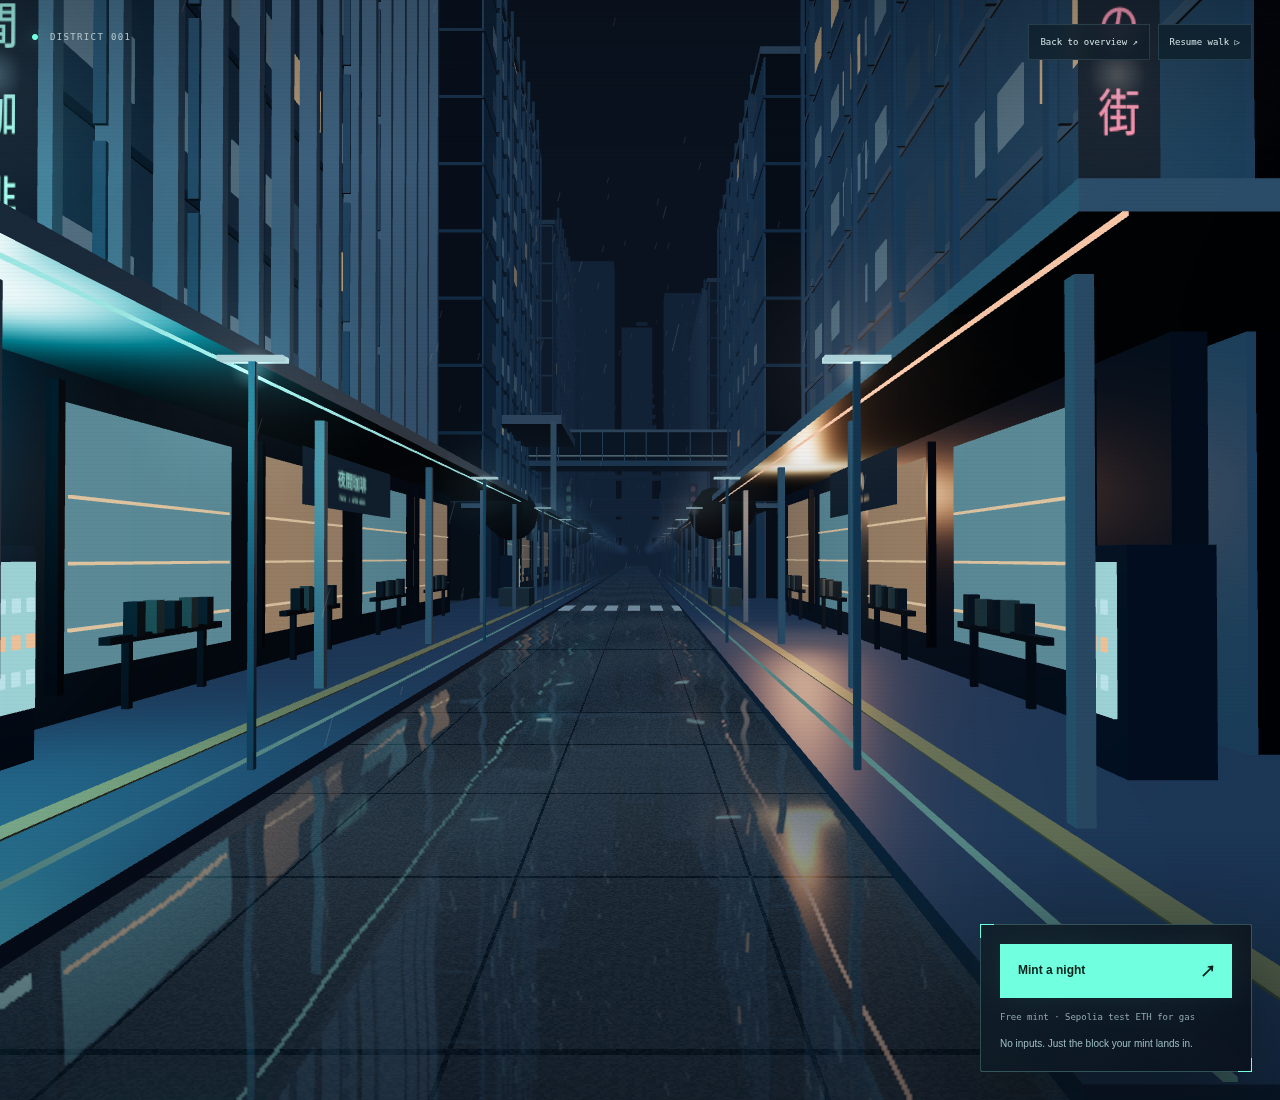
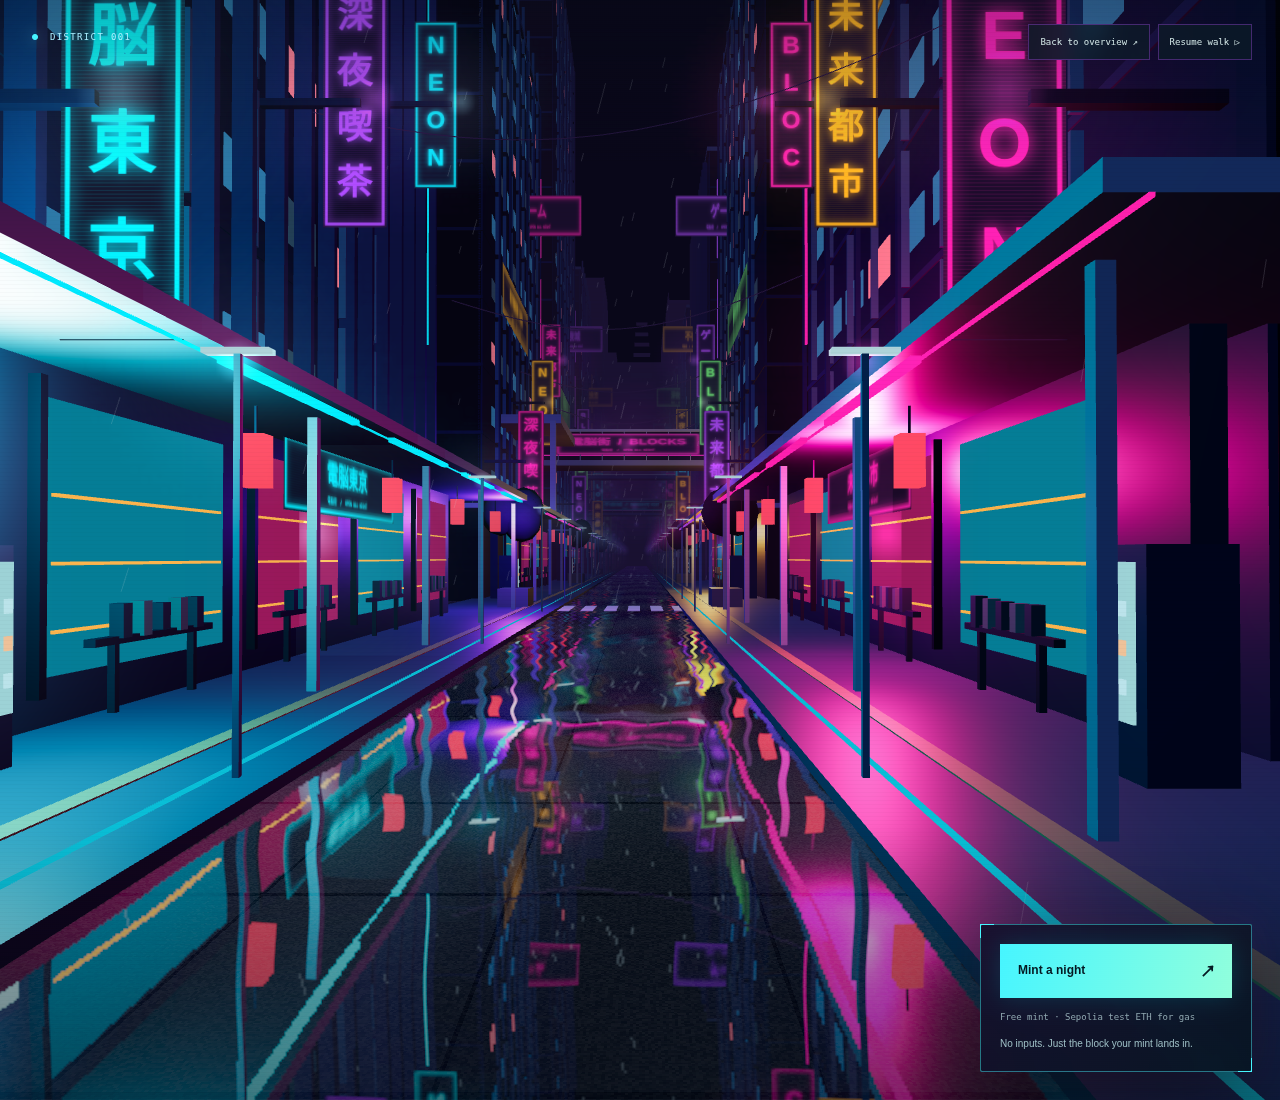
Light the Blocks street with cyberpunk neon and stacked signs

diff --git a/blocks-page/dist/style.css b/blocks-page/dist/style.css
@@ -34,3 +34,12 @@ body.exploring{overflow:hidden}body.exploring .landing{position:fixed;inset:0;z-
 
 @media(max-width:700px){.hero-copy{top:151px}h1{font-size:66px}}
 @media(max-width:370px){.hero-copy{top:145px}h1{font-size:56px}}
+
+/* Electric shop signs against a violet night, following the district moodboard. */
+:root{--mint:#46f5ff;--pink:#ff32b5;--bg:#090713}
+h1 em{color:#ff75d0;text-shadow:0 0 28px #ff20ad55,0 0 80px #bf25ff30}
+.hero-copy .eyebrow{color:#a8f7ff}.hero-location{color:#a8edff}.hero-location>span:last-child{color:#e681cc}
+.explore{border-color:#ff32b580;background:#1a0b2c9c;box-shadow:inset 0 0 18px #ff20ad0d,0 0 24px #ff20ad12}.explore:hover{background:#30113dbb;border-color:#ff75d0}.explore span{color:#ff75d0}
+.mint-panel{border-color:#46f5ff70;background:linear-gradient(135deg,#160f2cf2,#071522ee);box-shadow:0 20px 80px #0008,0 0 32px #ff20ad14}
+.primary{background:linear-gradient(105deg,#46f5ff,#91ffdc);color:#041922;box-shadow:0 0 25px #00eaff28}.primary:hover:not(:disabled){background:#acffff;box-shadow:0 0 35px #00eaff55}
+.topbar{border-bottom-color:#ff32b52b}.ticker{background:#100b1b;border-color:#ff32b530}.edition-tag{color:#ff75d0}.art-frame{border-color:#bc42ff40}.scene-controls button{border-color:#b74dff55}
